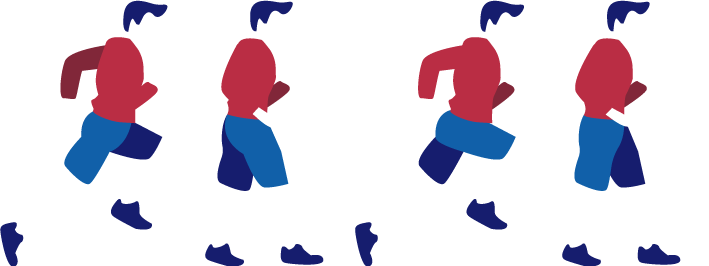
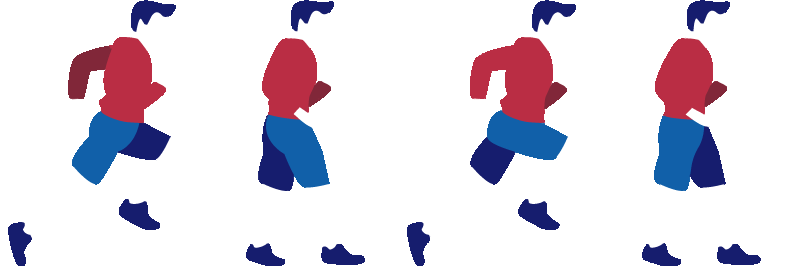
v01

diff --git a/main.js b/main.js
@@ -10,7 +10,7 @@ var config = {
         default: 'arcade',
         arcade: {
             gravity: { y: 1600 },
-            debug: false
+            debug: true
         }
     },
     scene: {
@@ -21,9 +21,12 @@ var config = {
 };
 
 var player
+var top_water
+var water
+var pala_eolica
 var cursors
-var jumpForce = -1000
-var jump = 0
+var jumpForce = -800
+var gameOver = false
 
 
 
@@ -34,40 +37,48 @@ function preload ()
   this.load.image('bg', 'assets/background.png');
   this.load.image('ground', 'assets/platform.png');
   this.load.image('fullscreen', 'assets/fullscreen.png');
-  this.load.spritesheet('player', 'assets/omino.png', { frameWidth: 177, frameHeight: 265 });
+  this.load.spritesheet('player', 'assets/omino.png', { frameWidth: 200, frameHeight: 265 });
+  this.load.image('top_water', 'assets/top_water.png');
+  this.load.image('water', 'assets/water.png');
+  this.load.image('pala_eolica', 'assets/pala_eolica.png');
 }
 
 function create ()
 {
-  this.add.image(0, 0, 'background').setOrigin(0, 0);
+  this.add.image(0, -100, 'bg').setOrigin(0, 0);
 
-  player = this.physics.add.sprite(100, 900, 'player');
+  player = this.physics.add.sprite(100, 590, 'player');
   player.setCollideWorldBounds(true);
-  player.setScale(0.3);
+  player.setScale(0.4);
+
 
   this.playerJumps = 0;
 
   this.anims.create({
       key: 'right',
-      frames: this.anims.generateFrameNumbers('player', { start: 0, end: 4 }),
+      frames: this.anims.generateFrameNumbers('player', { start: 0, end: 3 }),
       frameRate: 6,
       repeat: 0
   });
 
   ground = this.physics.add.staticGroup();
-  ground.create(0, 1000, 'ground').setOrigin(0, 0).setScale(6).refreshBody();
+  ground.create(0, 642, 'ground').setOrigin(0, 0).setScale(100).refreshBody();
 
   this.physics.add.collider(player, ground);
 
-  platforms = this.physics.add.staticGroup();
+  top_water = this.add.tileSprite(0,700, 16069, 205, 'top_water');
+  top_water.setOrigin(0, 0);
+  top_water.setScale(4);
+  top_water.setAlpha(0.7);
+  water = this.add.tileSprite(0, 870, 16069, 414, 'water');
+  water.setOrigin(0, 0);
+  water.setScale(4);
+  water.setAlpha(0.7);
 
-  platforms.create(600, 450, 'ground').setScale(1.5).refreshBody();
-  platforms.create(50, 250, 'ground').setScale(1.5).refreshBody();
-  platforms.create(750, 120, 'ground').setScale(1.5).refreshBody();
+  this.physics.add.existing(water);
+  water.body.setAllowGravity(false);
 
-  this.physics.add.collider(player, platforms);
-
-  var button = this.add.image(800-16, 16, 'fullscreen', 0).setOrigin(1, 0).setInteractive();
+  var button = this.add.image(1080-16, 16, 'fullscreen', 0).setOrigin(1, 0).setInteractive();
   button.setScale(0.1);
   button.on('pointerup', function () {
 
@@ -82,36 +93,49 @@ function create ()
   }, this);
   button.setScrollFactor(0);
 
-  this.cameras.main.setBounds(0, 0, 10080, 720);
-  this.physics.world.setBounds(0, 0, 10080, 1080);
+  this.cameras.main.setBounds(0, 0, 16069, 720);
+  this.physics.world.setBounds(0, 0, 16069, 720);
   this.cameras.main.startFollow(player, true, 0.08, 0.08);
 
   this.input.setTopOnly(false);
 
-  this.input.on('pointerdown', function (pointer, thid) {
-
-      if (jump === 0)
+  this.input.on('pointerdown', function (pointer, jump) {
+      jump = 0
+      if (player.body.touching.down && jump === 0)
       {
           player.setVelocityY(jumpForce);
           jump = 1
+          console.log(jump);
       }
-      else if (jump = 1) {
-        player.setVelocityY(jumpForce);
-        jump++
-      }
+
       else {
-        player.setVelocityY(0);
-        jump = 0;
+
+        jump = 0
       }
   }, this);
+
+
+
 }
+
 function update ()
 {
-
+      if (gameOver)
+      {
+        return;
+      }
       player.setVelocityX(500);
-
       player.anims.play('right', true);
 
+      top_water.y += -0.2;
+      water.y += -0.2;
+      this.physics.add.overlap(player, water, drown, null, this);
 
-      console.log(player.body.velocity.y);
+      //console.log(player.body.velocity.y);
+}
+
+function drown(player, water) {
+  this.physics.pause();
+
+  gameOver = true;
 }
